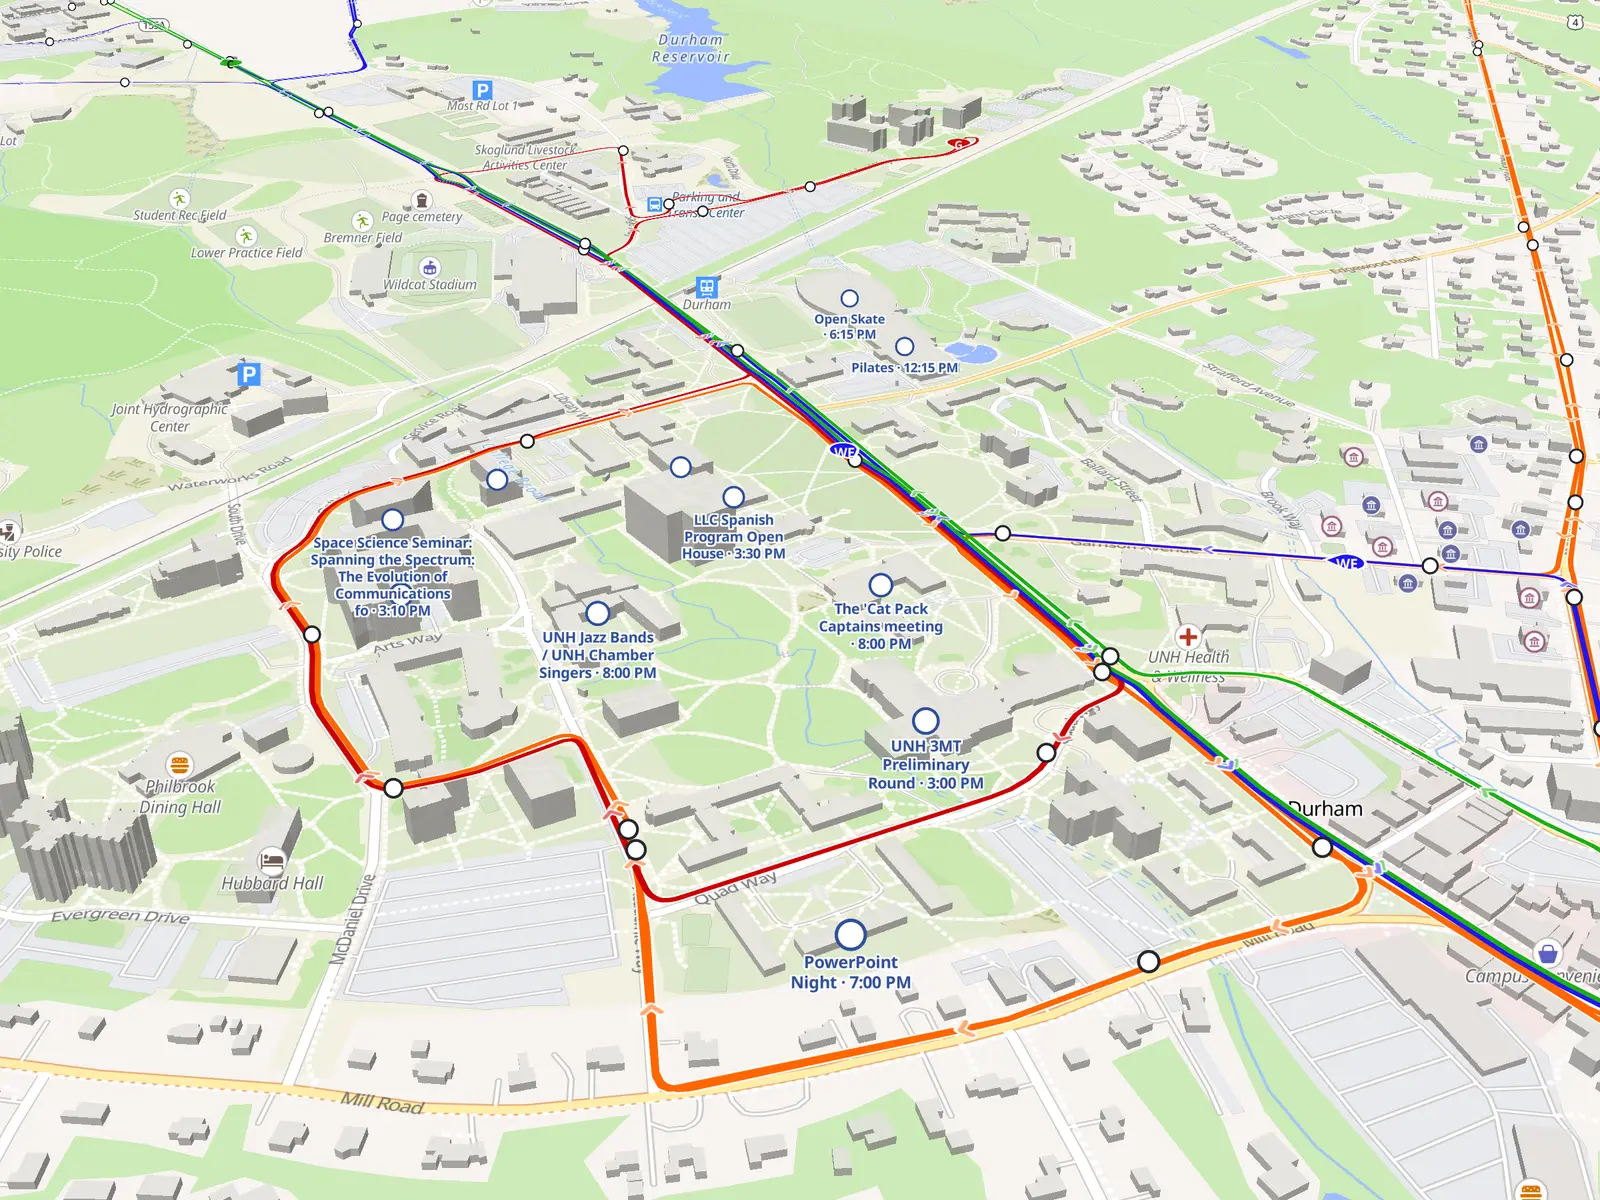
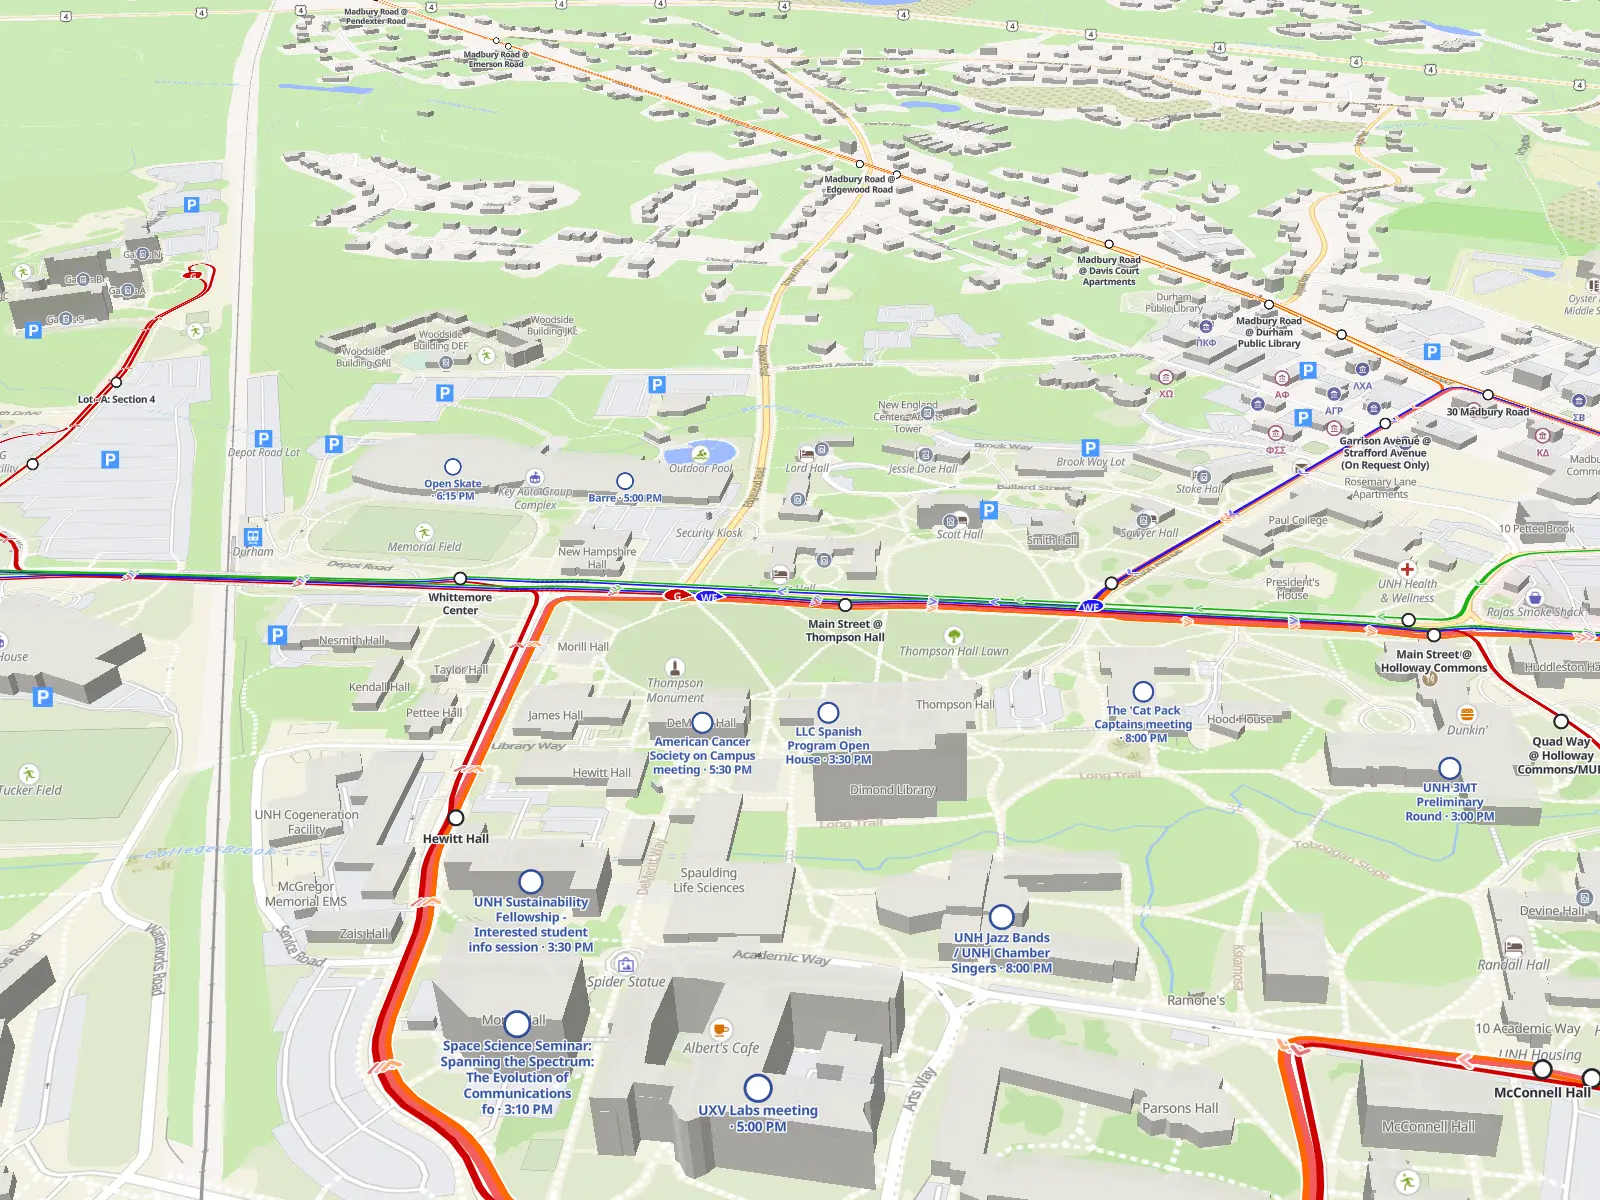
Pin the home page's picture of the map, show a hall's menu for the visit alone, and keep the day's list whole under the card

diff --git a/src/map/ui/Home.tsx b/src/map/ui/Home.tsx
@@ -5,13 +5,13 @@
 // what you're due at next, once you have anything, as the one card, a saved class, a final, the next thing in the
 // calendars you've imported, a session you've saved, the next of an activity you follow or an event you're going to,
 // whichever is soonest or under way; then what's on now and the next few things today (state/today.mts) with the rest
-// of what's yours today in its place among them by its time, washed in gold, what recurs folded under them by kind,
-// and making an event of your own as the last row. Then Yours beyond today, the sooner first (state/courses.mts,
-// state/finals.mts, state/calendars.mts, state/saves.mts), with deadlines and breaks in the next few days, the
-// reminders set on this phone (Remind.tsx) and the trips saved here (state/trip.mts); then plan ahead, three rows, and
-// the week. With nothing of yours it's the day's list alone, which leads. While the search is typed in, its
-// suggestions lie over the page (Search.tsx), which stays as it was beneath them, scrolled and opened as it was, and
-// the sheet the size it was
+// of what's yours today in its place among them by its time, washed in gold, the card's own too, what recurs folded
+// under them by kind, and making an event of your own as the last row. Then Yours beyond today, the sooner first
+// (state/courses.mts, state/finals.mts, state/calendars.mts, state/saves.mts), with deadlines and breaks in the next
+// few days, the reminders set on this phone (Remind.tsx) and the trips saved here (state/trip.mts); then plan ahead,
+// three rows, and the week. With nothing of yours it's the day's list alone, which leads. While the search is typed
+// in, its suggestions lie over the page (Search.tsx), which stays as it was beneath them, scrolled and opened as it
+// was, and the sheet the size it was
 
 import { r } from "bruh/reactive"
 import type { BruhChild } from "bruh/browser"
@@ -98,8 +98,11 @@ const Goals = () =>
     />
   ))
 
-/** Something of yours with a time: its row, what the card says of it while it's next, and its event's id where it's one */
-type Mine = { start: number, end: number, title: string, where: BruhChild, note?: BruhChild, event?: string, open: () => void, row: () => BruhChild }
+/**
+ * Something of yours with a time: its row, what the card says of it while it's next, and whether it's an event, which
+ * the day's list has already
+ */
+type Mine = { start: number, end: number, title: string, where: BruhChild, note?: BruhChild, event?: true, open: () => void, row: () => BruhChild }
 
 /** Everything of yours with a time, the sooner first: your classes, your finals, the next import, and your events */
 const mine = (): Mine[] => {
@@ -144,7 +147,7 @@ const mine = (): Mine[] => {
       end:   event.end,
       title: event.title,
       where: whereOf(event),
-      event: event.id,
+      event: true,
       open:  () => state.go({ kind: "event", id: event.id }),
       row:   () => <EventRow event={event} />
     }))
@@ -232,11 +235,11 @@ const Today = ({ yours }: { yours: YoursNow }) =>
   r(() => {
     const now = nowMs()
     const { all, next } = yours.value
-    // The card's own event isn't told again under it, and what else is yours today that isn't an event takes its place by its time
-    const listed = state.todayList.value.filter(event => event.id !== next?.event)
-    const on = listed.filter(event => event.start <= now && now < event.end)
-    const later = listed.filter(event => event.start > now)
-    const also = all.filter(item => item !== next && !item.event && isToday(item) && item.start > now).map(({ start, row }) => ({ start, row: row() }))
+    // The card says what's next and the list stays the whole day, so what's starred in it stays where it was starred.
+    // What else is yours today that isn't an event takes its place by its time
+    const on = state.todayList.value.filter(event => event.start <= now && now < event.end)
+    const later = state.todayList.value.filter(event => event.start > now)
+    const also = all.filter(item => !item.event && isToday(item) && item.start > now).map(({ start, row }) => ({ start, row: row() }))
     return <>
       {next && <Next next={next} />}
       {on.length > 0 && <>

diff --git a/index.html.tsx b/index.html.tsx
@@ -16,9 +16,10 @@ export default () =>
             <p>An unofficial guide to UNH, on one map.</p>
           </header>
 
-          {/* The one way in: the map itself over a poster that says so. The picture is a capture of the map */}
+          {/* The one way in: the map itself over a poster that says so. The picture is a capture of the map on a
+              weekday afternoon, pinned, and the same in either theme, as the map itself is */}
           <a class="way-in" href="/map/">
-            <img src="/home/map.webp" width="1600" height="1200" alt="The UNH campus from above, with Wildcat Transit's routes and today's events marked on it" fetchpriority="high" />
+            <img src="/home/map.webp" width="1600" height="1200" alt="The middle of the UNH campus from above, tilted, with Wildcat Transit's buses on Main Street and the day's events marked on its buildings" fetchpriority="high" />
             <span class="poster">
               <span class="poster-label">Buses · events · classes · dining · laundry · parking</span>
               <strong>Open the map</strong>

diff --git a/src/shell/page.css b/src/shell/page.css
@@ -74,7 +74,7 @@
   block-size: auto;
   aspect-ratio: 16 / 11;
   object-fit: cover;
-  object-position: 42% 45%;
+  object-position: 50% 60%;
   background: var(--surface-raised);
   transition: scale 600ms cubic-bezier(0.2, 0.7, 0.2, 1);
 }
@@ -123,13 +123,6 @@
 
 .way-in:hover .way-in-go {
   translate: 0.2rem;
-}
-
-/* The map by night: the one picture, turned */
-@media (prefers-color-scheme: dark) {
-  .way-in img {
-    filter: invert(1) hue-rotate(180deg) brightness(0.92) contrast(0.88) saturate(1.2);
-  }
 }
 
 @media (prefers-reduced-motion: reduce) {

diff --git a/docs/map.md b/docs/map.md
@@ -4,8 +4,8 @@ The map's sheet, and what it takes from OpenStreetMap. Buses are in [transit.md]
 
 ## The sheet
 
-- **Home** (`src/map/ui/Home.tsx`): search (`ui/Search.tsx`), You and Directions, then two views named in the display type, the one last left opening again (`home-view`, this device only). **Today** is a timeline: what you're due at next today as the one card, the first of Yours (the rest of your saved classes, the next of your calendars, deadlines and breaks in the next few days, saved sessions, followed activities' next sessions and events you're going to, reminders, saved trips), then Now, the next four things today with what recurs folded by kind and "+ New event", and **This week ›** and **Plan ahead ›** ([social.md](social.md#saves-follows-and-yours)). With nothing of yours it's the day's list alone. **Campus** (`ui/Campus.tsx`) is a directory in one order, each row saying what's so now in place of a description: Dining (the meal on and till when), Laundry (your starred hall's machines free, else how many halls have a washer), Buses, Clubs & activities, Events this week, Classes, Parking, Term dates. Typed searches lay suggestions over the view, still mounted.
-- **Dining, laundry and classes in the sheet** (`ui/Campus.tsx`, `state/campus.mts`): `/map/dining` is the two halls side by side, each with its standing, the walk and what the meal leads with (`highlights` in `src/dining/menus.mts`); `/map/laundry` every hall's washers and dryers free, starred first (`laundry-favorites`, the laundry page's own); `/map/classes` your week and the ways into the courses. While dining's or laundry's is shown the map says the same where the buildings stand (`render/status.mts`) and frames them; off those pages it says nothing of either. A hall's place leads with its meal and a residence hall's with its machines, each linking on to `/dining/` (opened on that hall, `dining-hall`) or `/laundry/<room>/`, whose **‹ Map** is Back itself when the visit came from the map (`PageHead` in `src/shell/ui.tsx`, `src/shell/index.mts`). Today's menu files and `/api/laundry/rooms` are asked for only once something shows them.
+- **Home** (`src/map/ui/Home.tsx`): search (`ui/Search.tsx`), You and Directions, then one page in two parts, **Today** and **Campus**, each named in the display type in a bar that stays at the top as the page scrolls; a name is a link to its part (`#today`, `#campus`) that scrolls the sheet's body there without touching the address or the history, and the one in view is lit. **Today** is one day read down: what you're due at next, or at now and till when, as the one card; Now; then the next four things today with what's yours today (saved classes, the next of your calendars, saved sessions, followed activities' next sessions, events you're going to) in its place among them by its time, washed in gold, what recurs folded by kind, and "+ New event". Then **Yours** beyond today (with deadlines and breaks in the next few days, reminders and saved trips) and **Plan ahead** in three rows with **This week ›** and **Full term ›** ([social.md](social.md#saves-follows-and-yours)). With nothing of yours it's the day's list alone. **Campus** (`ui/Campus.tsx`) is a directory in one order, each row saying what's so now in place of a description: Dining (the meal on, and till when the halls are open, as the menus carry no meal times), Laundry (your starred hall's machines free, else how many halls have a washer), Buses, Clubs & activities, Events this week, Classes, Parking, Term dates. Typed searches lay suggestions over the page, still mounted.
+- **Dining, laundry and classes in the sheet** (`ui/Campus.tsx`, `state/campus.mts`): `/map/dining` is the two halls side by side, each with its standing, the walk and what the meal leads with (`highlights` in `src/dining/menus.mts`); `/map/laundry` every hall's washers and dryers free, starred first (`laundry-favorites`, the laundry page's own); `/map/classes` your week and the ways into the courses. While dining's or laundry's is shown the map says the same where the buildings stand, as a symbol layer that keeps its marks apart (`render/status.mts`), and frames the halls, or the residence halls around the middle of campus; off those pages it says nothing of either. A hall's place leads with its meal and a residence hall's with its machines, each linking on to `/dining/?hall=<id>`, which shows that hall for the visit without changing the one remembered, or `/laundry/<room>/`, whose **‹ Map** is Back itself when the visit came from the map (`PageHead` in `src/shell/ui.tsx`, `src/shell/index.mts`). Today's menu files and `/api/laundry/rooms` are asked for only once something shows them.
 - **Pages** (`link.mts`, `state/page.mts`, `ui/Pages.tsx`): every other view is a shareable path in history, `/map/<kind>/<what>`, spaces as `+`, its scroll kept for Back. Besides those in [courses.md](courses.md), [programs.md](programs.md), [parking.md](parking.md) and [social.md](social.md): `place/<name>`, `stop/<id>`, `bus/<vehicle>`, `buses`, `directions`, `new[/<place>]`, `explore`, `activity/<key>`, `week`, `ahead` and `you` (`#link=`, `#verify=` open it). `?to=<place>`, `laundry/<room>` or `dining/<hall>` plans a trip and opens Directions.
 - **Detents** (`ui/sheet.mts`, `detents.mts`): lowered, half, tall, each a fixed height, any page. The sheet alone holds which; the rest asks it to `raise()` for something new in it or `expand()` for a planning view. Its grabber and header stay put; only the body under them scrolls. Dragging and scrolling are one motion: below tall, a pull anywhere moves the sheet, and a pull up that reaches tall runs on into scrolling the body; at tall, a pull up with more to show is the browser's scroll as ever, and a pull down takes the body back to its top and then lowers the sheet, in the one pull. A touch's first move decides whose it is (`owner`), and `placed` says where a drag's travel has the sheet and the scroll. Let go, `landing` says where: a flick goes on one detent that way, never two, and a slower release rests at the nearest; a finger held still before it lifts doesn't flick; let go in the scroll, that carries on by itself and slows. A touch becomes a drag only once it moves, and never from a field, so a tap leaves the sheet's layout alone. A page in the sheet **swipes back**: a touch whose first move is to the right is the page's (`owner`, where `canSwipeBack`: a page shown, not within 20 px of the screen's left edge, which is Safari's own swipe back in a tab, and not on a row that scrolls sideways or a field), which follows the finger by translate and, let go a third of the way across or flicked (`swipesBack`), slides off and goes Back, to the page it was opened over or, from the first page the visit opened, home; else it springs back. The home has nothing to go back to. It's lifted above iOS's keyboard, which iOS draws over the page, and the page, which never scrolls, is scrolled straight back when iOS scrolls it to show a field, as that leaves taps landing away from what's drawn.
 - **Camera**: `followPage` (`render/map.mts`) alone drives it, easing once as a page opens and again only when its target changes (`aimed`, `render/camera.mts`); Directions' target is the whole trip. Views mark their place with `state.focusAt(page, spot)`, written only while that page is shown. bruh runs a detached node's effects till it's collected: keep side effects out of reactive JSX.

diff --git a/docs/social.md b/docs/social.md
@@ -48,7 +48,7 @@ Some things happen again and again with no calendar telling them: language conve
 
 What you tap decides what's kept (`src/social/saves.mts`, the synced key `events-saved`, `{ sessions: { id: end }, follows: [key] }`). A dated row's star, or an event page's **Save**, saves that one session, let go once it's over; saved from an activity you don't follow, a notice offers to follow it. An activity's page (`/map/activity/<key>`) has **Follow**, which keeps only the key, so it outlasts weeks with nothing posted. Neither is inferred from the other. A session is found by its own id or any in `also`, so a save made before two tellings merged keeps working. **Going** stays on people's own events, which have no star. Yours is computed each time from saves, follows and Going (`state.yoursNext`, `src/map/state/saves.mts`), never written back.
 
-**Clubs & activities** (`/map/explore`, `src/map/ui/Explore.tsx`) is the directory, filtered first by whether you could go (meets today, drop-in, a day, a time of day), then by interest; each row gives the next matching session and how to join. An activity's page says who runs it, when it meets, how to join, its next sessions, Follow, and **Subscribe** to every session. **Plan ahead** (`/map/ahead`, `src/map/ui/Ahead.tsx`) lists the term's key dates ([courses.md](courses.md)), home games and what's yours further out, by month, registration windows narrowed by your class standing (`class-standing`); the home links to it from Today and says its next date in Campus. **You** (`/map/you`) lists the sessions saved and the activities followed.
+**Clubs & activities** (`/map/explore`, `src/map/ui/Explore.tsx`) is the directory, filtered first by whether you could go (meets today, drop-in, a day, a time of day), then by interest; each row gives the next matching session and how to join. An activity's page says who runs it, when it meets, how to join, its next sessions, Follow, and **Subscribe** to every session. **Plan ahead** (`/map/ahead`, `src/map/ui/Ahead.tsx`) lists the term's key dates ([courses.md](courses.md)), home games and what's yours further out, by month, registration windows narrowed by your class standing (`class-standing`); the home shows three rows of it at most, and says its next date in Campus. **You** (`/map/you`) lists the sessions saved and the activities followed.
 
 ## Pins
 
